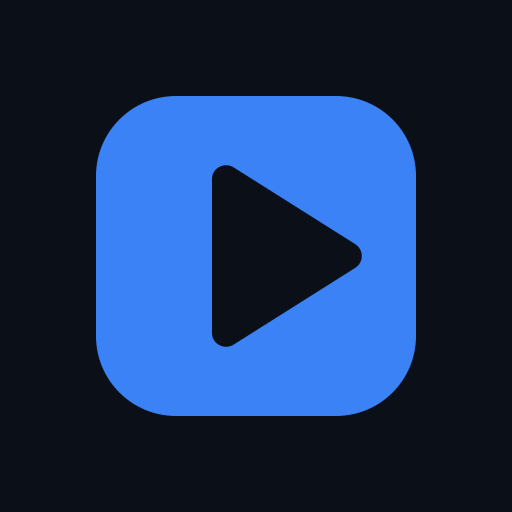
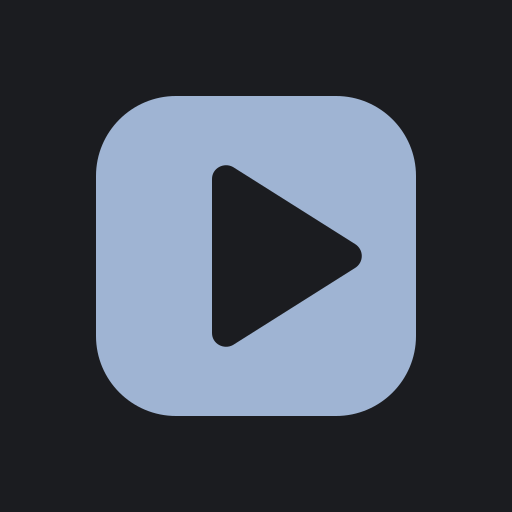
style: soft graphite rebrand (dusty blue accent, cream text, pill buttons, 14px corners)

diff --git a/src/app/(app)/watch/[id]/page.tsx b/src/app/(app)/watch/[id]/page.tsx
@@ -40,7 +40,7 @@ export default async function WatchPage({ params, searchParams }: PageProps<"/wa
       {video.embeddable ? (
         <Player key={video.id} videoId={video.id} durationSeconds={video.durationSeconds} startAt={startAt} nextHref={nextHref} />
       ) : (
-        <div className="relative aspect-video w-full overflow-hidden rounded-xl bg-black">
+        <div className="relative aspect-video w-full overflow-hidden rounded-[14px] bg-black">
           {video.thumbnailUrl && <Image src={video.thumbnailUrl} alt="" fill unoptimized className="object-cover opacity-40" />}
           <div className="absolute inset-0 flex flex-col items-center justify-center gap-4 px-6 text-center">
             <p className="max-w-md text-pretty">O canal não permite assistir este vídeo fora do YouTube.</p>
@@ -48,7 +48,7 @@ export default async function WatchPage({ params, searchParams }: PageProps<"/wa
               href={`https://www.youtube.com/watch?v=${video.id}`}
               target="_blank"
               rel="noopener noreferrer"
-              className="flex items-center gap-2 rounded-lg bg-accent px-4 py-2 text-sm font-medium text-white transition-colors hover:bg-accent-hover"
+              className="flex items-center gap-2 rounded-full bg-accent px-4 py-2 text-sm font-medium text-on-accent transition-colors hover:bg-accent-hover"
             >
               <ExternalLink className="h-4 w-4" /> Abrir no YouTube
             </a>
@@ -62,7 +62,7 @@ export default async function WatchPage({ params, searchParams }: PageProps<"/wa
         <Link href={`/channel/${video.channelId}`} className="flex items-center gap-3">
           <ChannelAvatar src={video.channelAvatarSrc} name={video.channelTitle} size={40} />
           <span>
-            <span className="block font-medium hover:text-white">{video.channelTitle}</span>
+            <span className="block font-medium hover:text-accent">{video.channelTitle}</span>
             <time dateTime={video.publishedAt.toISOString()} className="block text-sm text-muted">
               {formatRelative(video.publishedAt)}
             </time>

diff --git a/src/app/(app)/channels/ChannelForms.tsx b/src/app/(app)/channels/ChannelForms.tsx
@@ -17,7 +17,7 @@ type Category = { id: number; name: string };
 const input =
   "rounded-lg border border-border bg-surface-2 px-3 py-2 text-sm text-text placeholder:text-muted/80 outline-none focus:border-accent";
 const primary =
-  "flex items-center justify-center gap-2 rounded-lg bg-accent px-4 py-2 text-sm font-medium text-white transition-colors hover:bg-accent-hover disabled:opacity-60";
+  "flex items-center justify-center gap-2 rounded-full bg-accent px-4 py-2 text-sm font-medium text-on-accent transition-colors hover:bg-accent-hover disabled:opacity-60";
 const ghostIcon = "rounded-lg p-2 text-muted transition-colors hover:bg-surface-2 hover:text-text disabled:opacity-50";
 
 export function AddChannelForm({ categories }: { categories: Category[] }) {
@@ -52,7 +52,7 @@ export function AddChannelForm({ categories }: { categories: Category[] }) {
         </button>
       </div>
       {state.message && (
-        <p role="status" className={`text-sm ${state.ok ? "text-accent" : "text-red-400"}`}>
+        <p role="status" className={`text-sm ${state.ok ? "text-accent" : "text-danger"}`}>
           {state.message}
         </p>
       )}
@@ -127,7 +127,7 @@ export function CreateCategoryForm() {
           Criar
         </button>
       </div>
-      {!state.ok && <p className="text-sm text-red-400">{state.message}</p>}
+      {!state.ok && <p className="text-sm text-danger">{state.message}</p>}
     </form>
   );
 }
@@ -176,7 +176,7 @@ export function CategoryRow({ category }: { category: Category }) {
             <X className="h-4 w-4" />
           </button>
         </form>
-        {error && <p className="text-sm text-red-400">{error}</p>}
+        {error && <p className="text-sm text-danger">{error}</p>}
       </li>
     );
   }

diff --git a/src/components/AddToPlaylistMenu.tsx b/src/components/AddToPlaylistMenu.tsx
@@ -75,7 +75,7 @@ export function AddToPlaylistMenu({
         <ListPlus className="h-4 w-4" /> Salvar na playlist
       </button>
       {open && (
-        <div className="absolute right-0 top-full z-40 mt-2 w-72 rounded-xl border border-border bg-surface-2 p-2 shadow-[0_12px_32px_rgba(0,0,0,0.5)]">
+        <div className="absolute right-0 top-full z-40 mt-2 w-72 rounded-[14px] border border-border bg-surface-2 p-2 shadow-[0_12px_32px_rgba(0,0,0,0.5)]">
           {others.length === 0 && <p className="px-2 py-1.5 text-sm text-muted">Você ainda não tem playlists.</p>}
           <ul className="max-h-64 overflow-y-auto">
             {others.map((p) => (
@@ -121,12 +121,12 @@ export function AddToPlaylistMenu({
               type="submit"
               disabled={pending || !name.trim()}
               aria-label="Criar playlist com este vídeo"
-              className="rounded-lg bg-accent p-2 text-white hover:bg-accent-hover disabled:opacity-50"
+              className="rounded-full bg-accent p-2 text-on-accent hover:bg-accent-hover disabled:opacity-50"
             >
               <Plus className="h-4 w-4" strokeWidth={2.5} />
             </button>
           </form>
-          {error && <p className="px-2 pt-1 text-sm text-red-400">{error}</p>}
+          {error && <p className="px-2 pt-1 text-sm text-danger">{error}</p>}
         </div>
       )}
     </div>

diff --git a/src/app/(app)/playlists/[id]/page.tsx b/src/app/(app)/playlists/[id]/page.tsx
@@ -41,7 +41,7 @@ export default async function PlaylistPage({ params }: PageProps<"/playlists/[id
         {next && (
           <Link
             href={`/watch/${next.id}?list=${id}`}
-            className="flex items-center gap-2 rounded-full bg-accent px-5 py-2.5 text-sm font-medium text-white transition-colors hover:bg-accent-hover"
+            className="flex items-center gap-2 rounded-full bg-accent px-5 py-2.5 text-sm font-medium text-on-accent transition-colors hover:bg-accent-hover"
           >
             <Play className="h-4 w-4 fill-current" /> Tocar a seguir
           </Link>
@@ -57,7 +57,7 @@ export default async function PlaylistPage({ params }: PageProps<"/playlists/[id
       ) : (
         <ol className="flex flex-col gap-1">
           {items.map((v, i) => (
-            <li key={v.id} className="group flex items-center gap-3 rounded-xl p-2 transition-colors hover:bg-surface">
+            <li key={v.id} className="group flex items-center gap-3 rounded-[14px] p-2 transition-colors hover:bg-surface">
               <span className="w-5 shrink-0 text-center text-sm tabular-nums text-muted">{i + 1}</span>
               <Link href={`/watch/${v.id}?list=${id}`} className="flex min-w-0 flex-1 items-center gap-3">
                 <span className="relative aspect-video w-32 shrink-0 overflow-hidden rounded-lg bg-surface-2 sm:w-40">

diff --git a/src/components/Player.tsx b/src/components/Player.tsx
@@ -160,7 +160,7 @@ export function Player({ videoId, durationSeconds, startAt, nextHref }: Props) {
   }, [videoId, initialStart, ended, failed, round, router]);
 
   return (
-    <div className="relative aspect-video w-full overflow-hidden rounded-xl bg-black">
+    <div className="relative aspect-video w-full overflow-hidden rounded-[14px] bg-black">
       {failed ? (
         <div className="absolute inset-0 flex flex-col items-center justify-center gap-4 bg-surface px-6 text-center">
           <p className="max-w-md text-pretty">Não foi possível tocar este vídeo aqui.</p>
@@ -168,7 +168,7 @@ export function Player({ videoId, durationSeconds, startAt, nextHref }: Props) {
             href={`https://www.youtube.com/watch?v=${videoId}`}
             target="_blank"
             rel="noopener noreferrer"
-            className="flex items-center gap-2 rounded-lg bg-accent px-4 py-2 text-sm font-medium text-white transition-colors hover:bg-accent-hover"
+            className="flex items-center gap-2 rounded-full bg-accent px-4 py-2 text-sm font-medium text-on-accent transition-colors hover:bg-accent-hover"
           >
             <ExternalLink className="h-4 w-4" /> Abrir no YouTube
           </a>

diff --git a/src/app/(app)/playlists/PlaylistForms.tsx b/src/app/(app)/playlists/PlaylistForms.tsx
@@ -28,12 +28,12 @@ export function CreatePlaylistForm() {
         <button
           type="submit"
           disabled={pending}
-          className="flex items-center gap-2 rounded-lg bg-accent px-4 py-2 text-sm font-medium text-white transition-colors hover:bg-accent-hover disabled:opacity-60"
+          className="flex items-center gap-2 rounded-full bg-accent px-4 py-2 text-sm font-medium text-on-accent transition-colors hover:bg-accent-hover disabled:opacity-60"
         >
           <Plus className="h-4 w-4" strokeWidth={2.5} /> Criar
         </button>
       </div>
-      {!state.ok && <p className="text-sm text-red-400">{state.message}</p>}
+      {!state.ok && <p className="text-sm text-danger">{state.message}</p>}
     </form>
   );
 }
@@ -80,7 +80,7 @@ export function PlaylistHeaderControls({ id, name, isWatchLater }: { id: number;
         >
           <X className="h-4 w-4" />
         </button>
-        {error && <p className="w-full text-sm text-red-400">{error}</p>}
+        {error && <p className="w-full text-sm text-danger">{error}</p>}
       </form>
     );
   }

diff --git a/src/app/(app)/playlists/page.tsx b/src/app/(app)/playlists/page.tsx
@@ -21,7 +21,7 @@ export default async function PlaylistsPage() {
           const Icon = p.isWatchLater ? Clock : ListVideo;
           return (
             <Link key={p.id} href={`/playlists/${p.id}`} className="group flex flex-col gap-3">
-              <span className="relative block aspect-video overflow-hidden rounded-xl bg-surface-2">
+              <span className="relative block aspect-video overflow-hidden rounded-[14px] bg-surface-2">
                 {p.coverThumbnailUrl ? (
                   <Image
                     src={p.coverThumbnailUrl}
@@ -41,7 +41,7 @@ export default async function PlaylistsPage() {
                 </span>
               </span>
               <span>
-                <span className="block font-medium group-hover:text-white">{p.name}</span>
+                <span className="block font-medium group-hover:text-accent">{p.name}</span>
                 <span className="text-sm text-muted">
                   {p.count === 1 ? "1 vídeo" : `${p.count} vídeos`}
                 </span>

diff --git a/src/components/VideoCard.tsx b/src/components/VideoCard.tsx
@@ -27,7 +27,7 @@ export function VideoCard({ video, onFeed = false, watchQuery = "", hideChannel 
     <article className="group flex flex-col gap-3">
       <Link
         href={href}
-        className="relative block aspect-video overflow-hidden rounded-xl bg-surface-2 outline-offset-4"
+        className="relative block aspect-video overflow-hidden rounded-[14px] bg-surface-2 outline-offset-4"
         aria-label={video.title}
       >
         {video.thumbnailUrl && (
@@ -73,7 +73,7 @@ export function VideoCard({ video, onFeed = false, watchQuery = "", hideChannel 
           </Link>
         )}
         <div className="min-w-0 flex-1">
-          <Link href={href} className="line-clamp-2 font-medium leading-snug text-text hover:text-white">
+          <Link href={href} className="line-clamp-2 font-medium leading-snug text-text hover:text-accent">
             {video.title}
           </Link>
           <p className="mt-1 truncate text-sm text-muted">

diff --git a/src/app/(app)/error.tsx b/src/app/(app)/error.tsx
@@ -19,14 +19,14 @@ export default function AppError({ error, reset }: { error: Error & { digest?: s
       </p>
       <div className="mt-6 flex gap-2">
         {expired ? (
-          <Link href="/login" className="rounded-lg bg-accent px-4 py-2 text-sm font-medium text-white hover:bg-accent-hover">
+          <Link href="/login" className="rounded-full bg-accent px-4 py-2 text-sm font-medium text-on-accent hover:bg-accent-hover">
             Entrar
           </Link>
         ) : (
           <button
             type="button"
             onClick={reset}
-            className="rounded-lg bg-accent px-4 py-2 text-sm font-medium text-white hover:bg-accent-hover"
+            className="rounded-full bg-accent px-4 py-2 text-sm font-medium text-on-accent hover:bg-accent-hover"
           >
             Tentar de novo
           </button>

diff --git a/src/app/login/LoginForm.tsx b/src/app/login/LoginForm.tsx
@@ -21,14 +21,14 @@ export function LoginForm({ next }: { next: string }) {
         className="rounded-lg border border-border bg-surface-2 px-3 py-2.5 text-text outline-none focus:border-accent"
       />
       {state.error && (
-        <p role="alert" className="text-sm text-red-400">
+        <p role="alert" className="text-sm text-danger">
           {state.error}
         </p>
       )}
       <button
         type="submit"
         disabled={pending}
-        className="mt-2 rounded-lg bg-accent px-4 py-2.5 font-medium text-white transition-colors hover:bg-accent-hover disabled:opacity-60"
+        className="mt-2 rounded-full bg-accent px-4 py-2.5 font-medium text-on-accent transition-colors hover:bg-accent-hover disabled:opacity-60"
       >
         {pending ? "Entrando…" : "Entrar"}
       </button>

diff --git a/src/app/globals.css b/src/app/globals.css
@@ -1,14 +1,17 @@
 @import "tailwindcss";
 
 @theme {
-  --color-bg: #0b0f17;
-  --color-surface: #131a26;
-  --color-surface-2: #1b2433;
-  --color-border: #243047;
-  --color-accent: #3b82f6;
-  --color-accent-hover: #2563eb;
-  --color-text: #e6eaf2;
-  --color-muted: #8b95a7;
+  /* Soft graphite: low-contrast neutrals, cream text, dusty blue accent. */
+  --color-bg: #1b1c20;
+  --color-surface: #222328;
+  --color-surface-2: #2a2c32;
+  --color-border: #2f3137;
+  --color-accent: #9fb4d3;
+  --color-accent-hover: #b3c4dd;
+  --color-on-accent: #1b1c20;
+  --color-text: #e6e3dd;
+  --color-muted: #9c9a96;
+  --color-danger: #e0a7a2;
   --font-sans: var(--font-geist-sans), ui-sans-serif, system-ui, sans-serif;
   --font-mono: var(--font-geist-mono), ui-monospace, monospace;
 }

diff --git a/src/app/(app)/channels/page.tsx b/src/app/(app)/channels/page.tsx
@@ -36,7 +36,7 @@ export default async function ChannelsPage() {
                 <Link href={`/channel/${c.id}`} className="flex min-w-0 flex-1 items-center gap-3">
                   <ChannelAvatar src={c.avatarSrc} name={c.title} size={40} />
                   <span className="min-w-0">
-                    <span className="block truncate font-medium hover:text-white">{c.title}</span>
+                    <span className="block truncate font-medium hover:text-accent">{c.title}</span>
                     <span className="block truncate text-sm text-muted">
                       {[
                         c.handle,
